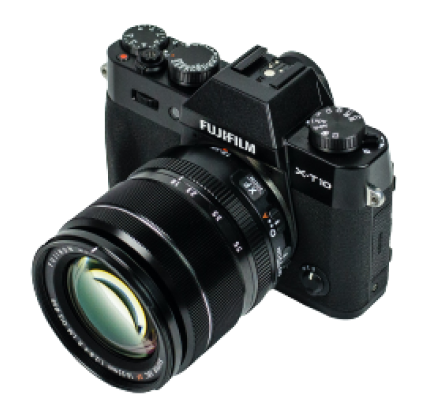
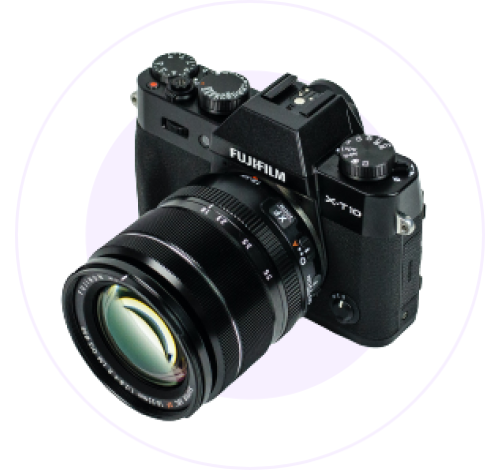
hero section and first section done

Changed region(s): [[0.0591, 0.058, 0.9159, 0.9565]]

diff --git a/index.html b/index.html
@@ -1,12 +1,75 @@
 <!DOCTYPE html>
 <html lang="en">
-<head>
-    <meta charset="UTF-8">
-    <meta http-equiv="X-UA-Compatible" content="IE=edge">
-    <meta name="viewport" content="width=device-width, initial-scale=1.0">
+  <head>
+    <meta charset="UTF-8" />
+    <meta http-equiv="X-UA-Compatible" content="IE=edge" />
+    <meta name="viewport" content="width=device-width, initial-scale=1.0" />
     <title>Influence-gear</title>
-</head>
-<body>
-    <h1>it is working</h1>
-</body>
+
+    <!-- stylesheet -->
+    <link rel="stylesheet" href="css/style.css" />
+
+    <!-- javascript -->
+    <script
+      src="https://kit.fontawesome.com/24b38608d4.js"
+      crossorigin="anonymous"
+    ></script>
+  </head>
+  <body>
+    <!-- hero section -->
+    <header>
+      <nav>
+        <div class="container">
+          <div class="logo-name">
+            <h1>Influencer Products</h1>
+          </div>
+
+          <div class="navs">
+            <ul>
+              <li>Home</li>
+              <li>Products</li>
+              <li>Sign Up</li>
+              <li>Log In</li>
+              <i class="fa fa-magnifying-glass icon"></i>
+              <i class="fa-solid fa-cart-shopping icon fa-shake"></i>
+            </ul>
+          </div>
+        </div>
+      </nav>
+    </header>
+
+    <main>
+      <!-- Body section -->
+      <div class="container">
+        <div class="half-width first-section">
+          <h1>Start your Journey as Influencer</h1>
+          <p class="description">
+            Lorem ipsum dolor sit amet consectetur adipisicing elit. Nam
+            possimus hic harum ducimus laboriosam non!
+          </p>
+
+          <button class="book">
+            <p>Prebook now</p>
+            <i class="fas fa-arrow-right"></i>
+          </button>
+        </div>
+        <div class="half-width">
+          <img src="images/main-camera.png" alt="" />
+        </div>
+      </div>
+
+      <!-- section 1 -->
+
+      <!-- section 2 -->
+
+      <!-- popular collection -->
+
+      <!-- featured products -->
+    </main>
+
+    <!--  -->
+  </body>
+
+  <footer></footer>
+  <!-- footer -->
 </html>

diff --git a/css/style.css b/css/style.css
@@ -1,0 +1,103 @@
+/* fonts */
+
+@import url(https://fonts.googleapis.com/css2?family=Inter:wght@400;500;700&family=Manrope:wght@700&family=Poppins:wght@500;600;700&family=Roboto:wght@700&display=swap);
+
+* {
+    padding: 0;
+    margin: 0;
+    
+}
+
+body{
+    font-family: 'Poppins', sans-serif;
+    max-width: 1440px;
+    margin: 90px auto 0 auto;
+}
+
+.container {
+    display: flex;
+    justify-content: space-between;
+    align-items: center;
+}
+
+/* navbar style */
+
+nav {
+    
+}
+
+nav ul{
+    display: flex;
+    list-style: none;
+    
+}
+
+nav ul li{
+    padding: 0 17px 0 17px;
+    color: #3A3A3A;
+    font-size: 16px;
+}
+
+.navs .icon{
+    font-size: 24px;
+    padding: 0 17px 0 17px;
+}
+
+/* main section */
+
+/* first section */
+.half-width{
+    
+    margin-top: 50px;
+    width: 50%;
+    display: flex;
+    justify-content: center;
+}
+
+.first-section{
+    display: inline-block;
+}
+
+.first-section h1{
+    font-style: normal;
+    font-weight: 700;
+    font-size: 52px;
+    color: #3A3A3A;
+}
+
+.first-section .description{
+    font-style: normal;
+    font-weight: 600;
+    font-size: 16px;
+    color: #3A3A3A;
+    margin-top: 16px;
+    margin-bottom: 16px;
+}
+
+.book{
+    display: flex;
+    align-items: center;
+    justify-content: center;
+    background-color: #E02C6D;
+    border-radius: 41px;
+    border-style: none;
+    width: 190px;
+    height: 45px;
+    padding: 10px 24px;
+}
+.book p{
+    font-style: normal;
+    font-weight: 700;
+    font-size: 16px;
+    color: #FFFFFF;
+}
+
+.book i{
+    font-size: 24px;
+    padding-left: 8px;
+    color: #FFFFFF;
+}
+
+.half-width img {
+    height: 470px;
+}
